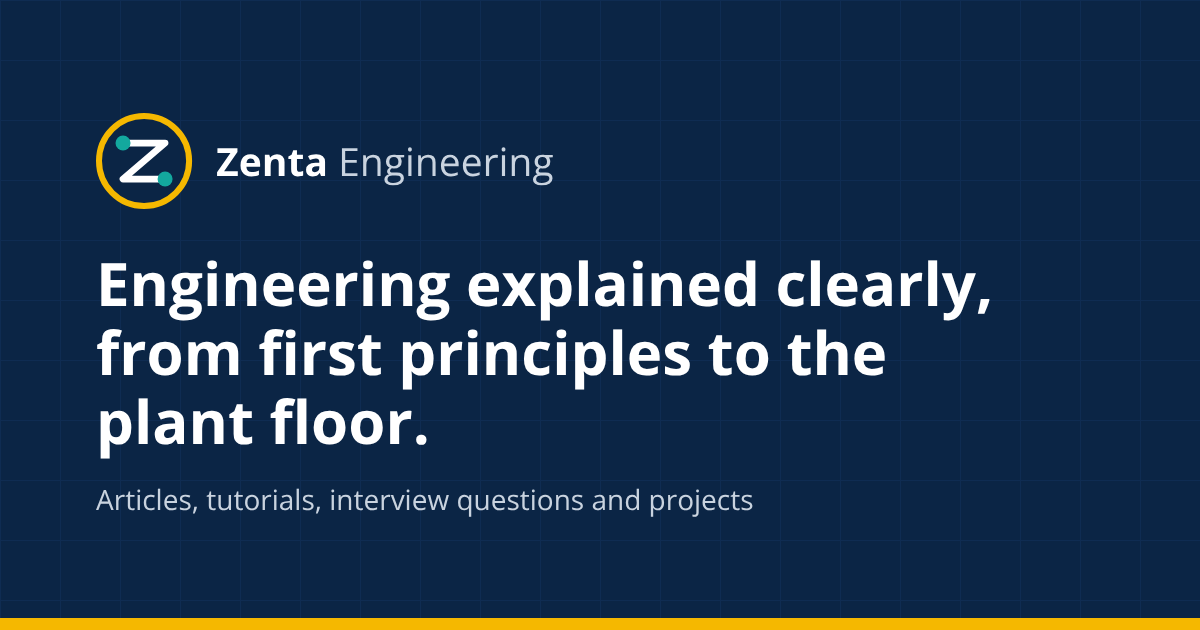
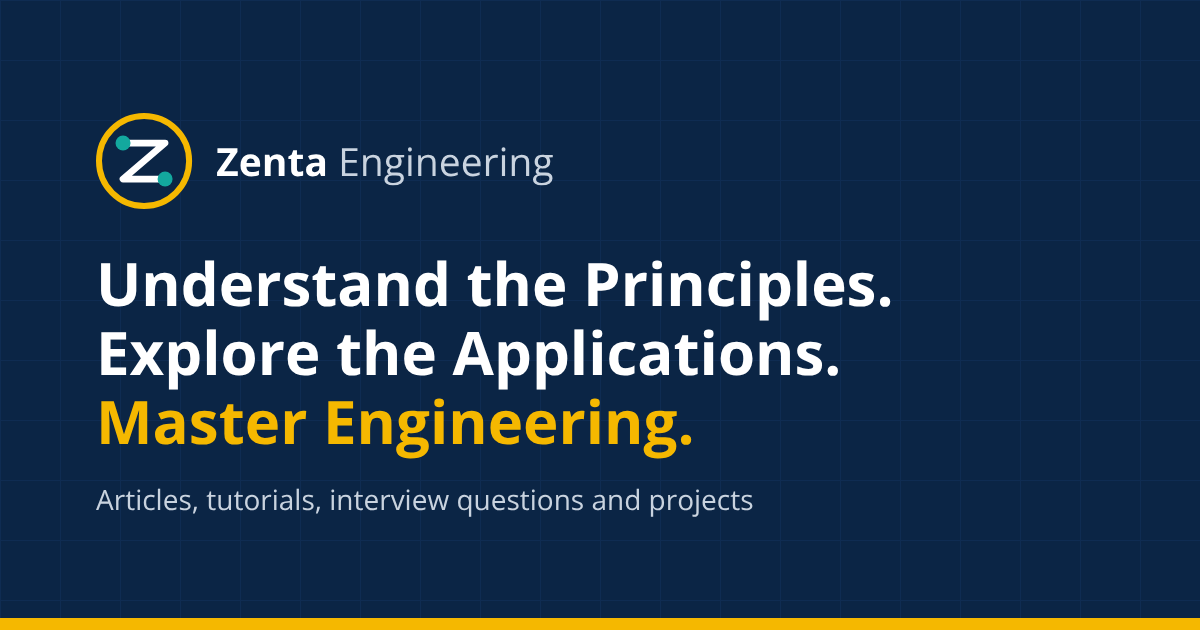
New slogan: Understand the Principles. Explore the Applications. Master Engineering.
Claude-Session: https://claude.ai/code/session_01E7SCfNNArBQamQH68871gi

Changed region(s): [[0.0617, 0.3921, 0.8325, 0.7238]]

diff --git a/src/data/site.ts b/src/data/site.ts
@@ -2,7 +2,7 @@
 export const SITE = {
   name: 'Zenta Engineering',
   url: 'https://zentaengineering.com',
-  tagline: 'Engineering explained clearly, from first principles to the plant floor.',
+  tagline: 'Understand the Principles. Explore the Applications. Master Engineering.',
   description:
     'Articles, tutorials, interview preparation and projects across engineering disciplines, for students and working engineers.',
   email: 'contact@zentaengineering.com', // TODO: confirm contact email
